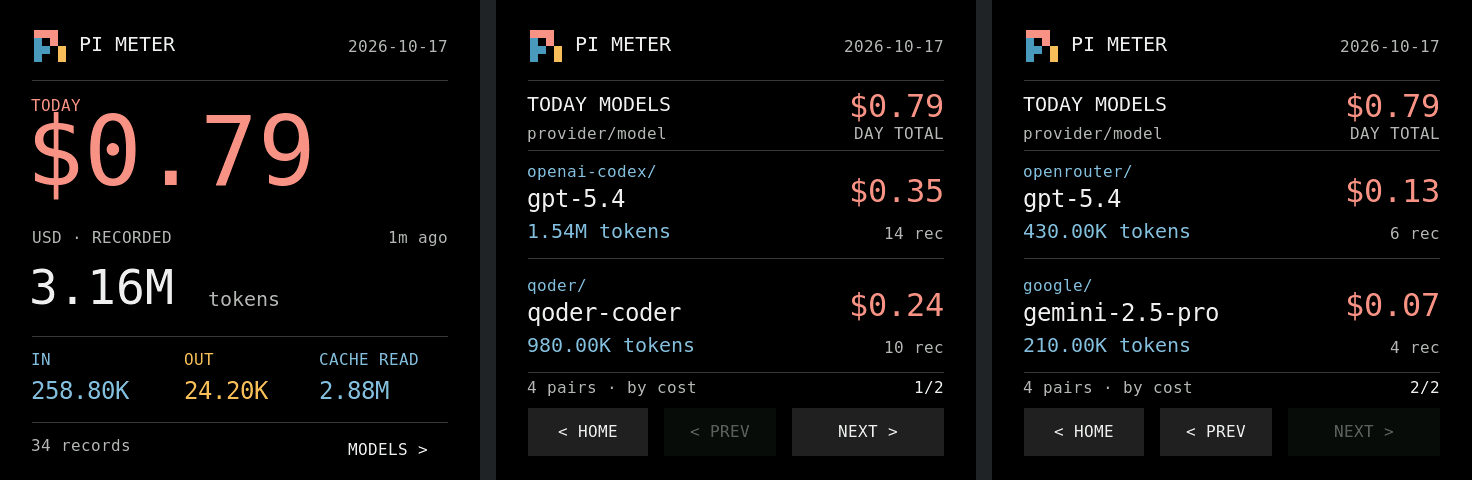
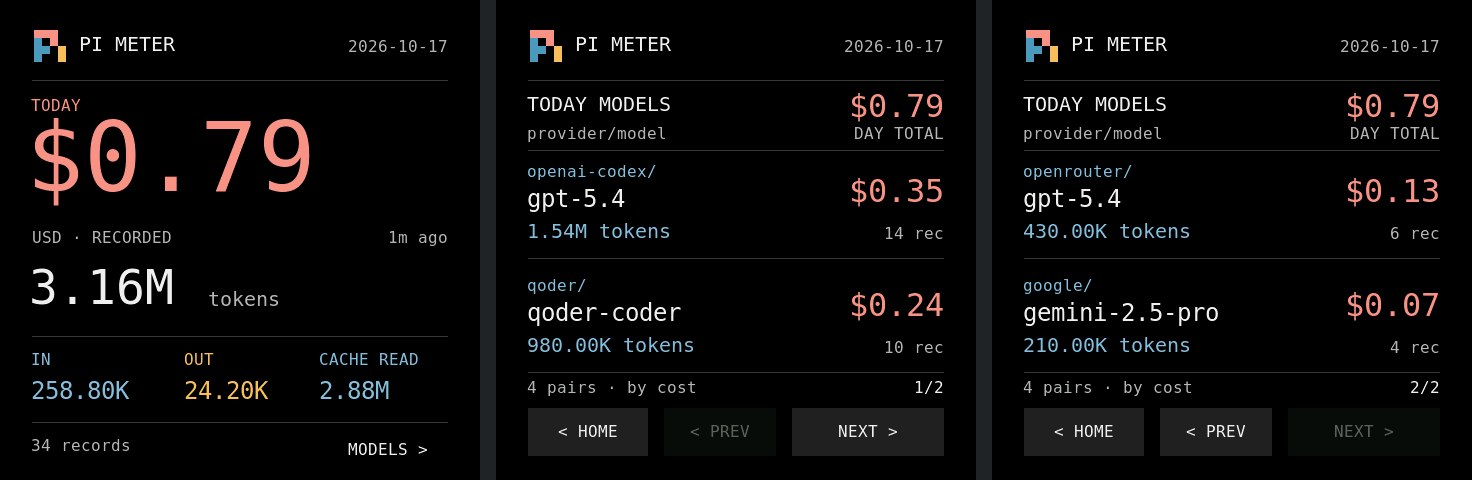
Give summary amounts more space below day captions

Changed region(s): [[0.0, 0.2188, 0.1562, 0.4062], [0.125, 0.2188, 0.2188, 0.4062]]

diff --git a/firmware/checks/ui.py b/firmware/checks/ui.py
@@ -1,7 +1,7 @@
 #!/usr/bin/env python3
 """Native LVGL regression (no hardware). After the first `pio run` downloads libs:
 python3 firmware/checks/ui.py [--render-dir docs/images]
-Only --render-dir writes a project artifact: yesterday.png, an offline synthetic frame.
+Only --render-dir writes project artifacts: home.png/yesterday.png, offline synthetic frames.
 """
 import argparse
 from concurrent.futures import ThreadPoolExecutor
@@ -69,7 +69,7 @@ def png565(data):
 
 def main():
     parser = argparse.ArgumentParser(description=__doc__)
-    parser.add_argument('--render-dir', type=Path, help='write only yesterday.png (offline, not a device photo)')
+    parser.add_argument('--render-dir', type=Path, help='write home.png and yesterday.png (offline, not device photos)')
     args = parser.parse_args()
     sources = sorted((LVGL / 'src').rglob('*.c'))
     fonts = [FW / 'src/fonts' / f'font_{size}.c' for size in (16, 20, 24, 32, 48, 96)]
@@ -100,14 +100,15 @@ def main():
              FW / 'checks/ui.cpp', FW / 'src/core.cpp', archive, '-o', binary], build)
         command = [binary, sample]
         if args.render_dir:
-            command.append(build / 'yesterday.rgb565')
+            command.append(build)
         print(run(command, build), end='', flush=True)
         if args.render_dir:
-            encoded = png565((build / 'yesterday.rgb565').read_bytes())
             args.render_dir.mkdir(parents=True, exist_ok=True)
-            output = args.render_dir / 'yesterday.png'
-            output.write_bytes(encoded)
-            print(f'{output}: 480x480 synthetic offline LVGL render; no text metadata')
+            for name in ('home', 'yesterday'):
+                encoded = png565((build / f'{name}.rgb565').read_bytes())
+                output = args.render_dir / f'{name}.png'
+                output.write_bytes(encoded)
+                print(f'{output}: 480x480 synthetic offline LVGL render; no text metadata')
 
 
 if __name__ == '__main__':

diff --git a/firmware/checks/ui.cpp b/firmware/checks/ui.cpp
@@ -152,6 +152,7 @@ int main(int argc, char** argv) {
     textIs(dateLabel,"2026-10-17"); textIs(period,"TODAY"); textIs(amount,"$0.79");
     textIs(tokens,"3.16M"); textIs(records,"34 records");
     textIs(lv_obj_get_child(modelsButton,0),"MODELS >");
+    if (argc==3) capture(display,(std::string(argv[2])+"/home.rgb565").c_str());
 
     stroke(100,0); state(meter::View::Yesterday); fades(home);
     textIs(dateLabel,"2026-10-16"); textIs(period,"YESTERDAY"); textIs(amount,"$1.24");
@@ -160,7 +161,7 @@ int main(int argc, char** argv) {
     textIs(lv_obj_get_child(modelsButton,0),"HOME >");
     assert(!lv_obj_has_state(modelsButton,LV_STATE_DISABLED));
     settled();
-    if (argc==3) capture(display,argv[2]);
+    if (argc==3) capture(display,(std::string(argv[2])+"/yesterday.rgb565").c_str());
     stroke(100,0); state(meter::View::Yesterday); fades();
     stroke(0,100); state(meter::View::Yesterday); fades();
     stroke(0,-100); state(meter::View::Yesterday); fades();

diff --git a/firmware/src/ui.cpp b/firmware/src/ui.cpp
@@ -127,7 +127,7 @@ void uiBegin() {
     home=box(root,0,81,480,399,0); details=box(root,0,81,480,399,0);
     // Coordinates below are relative to y=81, matching the approved previews.
     period=label(home,31,17,418,&font_16,Coral,"NO DATA YET");
-    amount=label(home,26,31,422,&font_96,Coral,"--");
+    amount=label(home,26,37,422,&font_96,Coral,"--");
     currency=label(home,32,149,306,&font_16,Gray,"USD · WAITING");
     age=label(home,340,149,108,&font_16,Gray,"--",true);
     tokens=label(home,29,184,300,&font_48,White,"--");

diff --git a/docs/images/README.md b/docs/images/README.md
@@ -11,6 +11,6 @@
 
 今日示例日期为 2026-10-17（Asia/Shanghai），采样时间12:00，日结束为次日00:00；已连接、1m ago、状态正常。今日合计$0.79、3,160,000 tokens、34 records。上一日示例为2026-10-16，$1.24、2,400,000 tokens、27 records，输入180,000、输出20,000、cache read2,200,000。两日issues/unpriced均为0，全部为合成示例。
 
-昨日图由 `python3 firmware/checks/ui.py --render-dir docs/images` 的真实LVGL回归渲染导出；截图在原生淡入完成后捕获，不用于声称实机动画帧率。
+今日／昨日两张汇总图由 `python3 firmware/checks/ui.py --render-dir docs/images` 的真实LVGL回归渲染导出；截图在原生淡入完成后捕获，不用于声称实机动画帧率。汇总页金额在标题下方下移6px（原控件y31→37），合图同步使用更新后的首页。
 
 未读取设备、USB、BLE 或私人会话数据。PNG 不含文本元数据或本机路径；离线渲染不验证屏幕面板、触摸硬件或实机显示效果。
